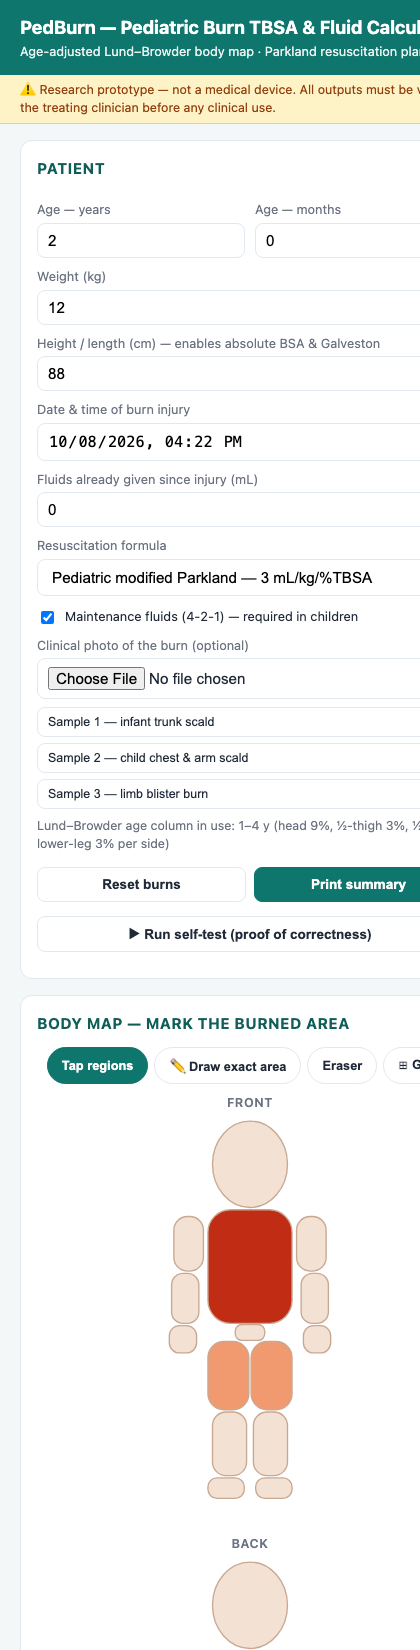
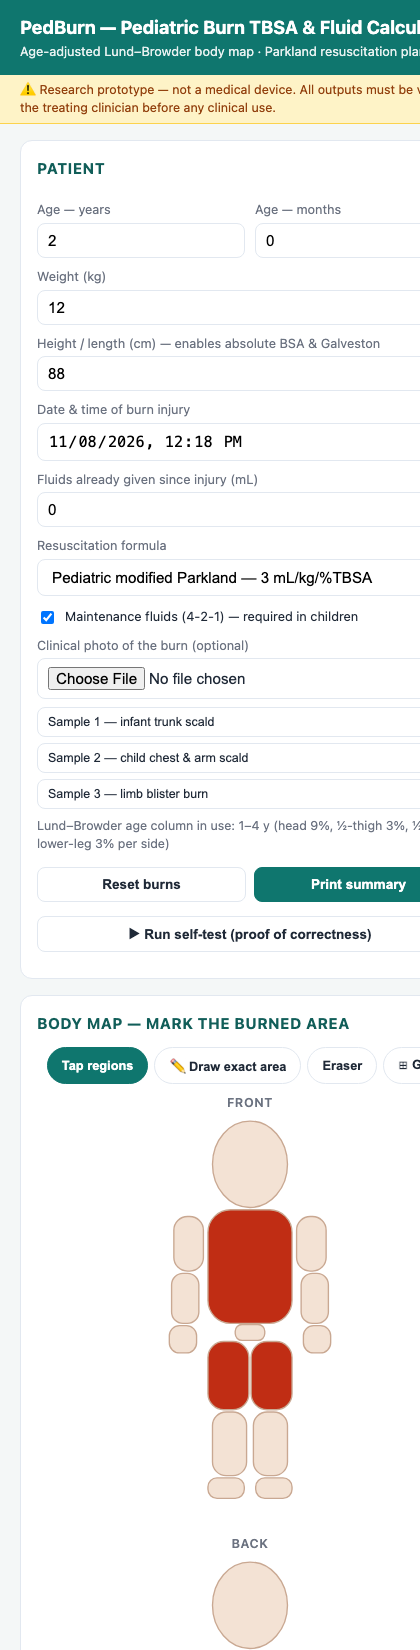
Binary burn marking: remove graded colour shading
Skin is now recorded strictly as burned or not burned, in one colour.
Graded tints were being read as burn depth, which the map does not
represent. Tapping a region marks the whole region (toggle); partial
involvement is expressed by the drawn area's shape, not by intensity.

- Single burn colour; legend reduced to unburned/burned + depth caveat
- Region list reports 'whole region' or measured '% of region'
- Demo presets rebuilt: partial regions now use real drawn areas
- Self-test extended to 20 checks; docs and screenshots regenerated

Changed region(s): [[0.4952, 0.8036, 0.7119, 0.8655], [0.4643, 0.2473, 0.4952, 0.2782], [0.4024, 0.2473, 0.4333, 0.2782]]

diff --git a/index.html b/index.html
@@ -230,7 +230,7 @@
       <div class="figure"><div class="cap">FRONT</div><div class="figwrap"><svg id="svgFront" viewBox="0 0 220 360" xmlns="http://www.w3.org/2000/svg"></svg><canvas id="cvFront" width="660" height="1080"></canvas></div></div>
       <div class="figure"><div class="cap">BACK</div><div class="figwrap"><svg id="svgBack" viewBox="0 0 220 360" xmlns="http://www.w3.org/2000/svg"></svg><canvas id="cvBack" width="660" height="1080"></canvas></div></div>
     </div>
-    <p class="maphint" id="mapHint">Each tap cycles the burned fraction of that region: 0 → ¼ → ½ → ¾ → full → 0</p>
+    <p class="maphint" id="mapHint">Tap a region to mark the whole region burned; tap again to clear. For part of a region, use Draw.</p>
     <div class="legend" id="legend"></div>
   </section>
 
@@ -245,7 +245,7 @@
 
 <footer>
   Surface-area weights: pediatric Lund–Browder chart (age columns 0 / 1 / 5 / 10 y). Pediatric modified Parkland: 3 mL × kg × %TBSA over 24 h from injury (½ in first 8 h) + 4-2-1 maintenance; classic 4 mL selectable.<br>
-  <span class="noprint">Prototype v0.1 — body-map input; AI photo segmentation module planned.</span>
+  <span class="noprint">Prototype v0.2 — binary body-map input (tap + draw planimetry); AI photo segmentation module planned.</span>
 </footer>
 
 <script>
@@ -352,9 +352,12 @@ const GEOM_BACK = [
 
 /* ══════════════════════ 3. STATE & RENDERING ══════════════════════ */
 
-const FRACTIONS = [0, 0.25, 0.5, 0.75, 1];
-const FRAC_LABEL = { 0: "0", 0.25: "¼", 0.5: "½", 0.75: "¾", 1: "Full" };
-const FILL = { 0: "var(--skin)", 0.25: "#f8c9ab", 0.5: "#f19a6f", 0.75: "#e5623c", 1: "#c02d14" };
+/* Burn marking is BINARY: skin is either burned or not burned. No graded
+   shading — a lighter tint would be read as a more superficial burn, which
+   the map does not represent. Partial coverage of a region is shown by the
+   shape of the drawn area itself, not by colour intensity. */
+const BURN_FILL = "#c02d14";
+const SKIN_FILL = "var(--skin)";
 const state = {};                       // regionId -> fraction
 REGIONS.forEach(r => state[r.id] = 0);
 const regionById = Object.fromEntries(REGIONS.map(r => [r.id, r]));
@@ -375,7 +378,7 @@ function buildFigure(svgEl, geoms) {
     }
     el.classList.add("region");
     el.dataset.region = g.id;
-    el.setAttribute("fill", FILL[0]);
+    el.setAttribute("fill", SKIN_FILL);
     el.addEventListener("click", () => cycleRegion(g.id));
     svgEl.appendChild(el);
     const title = document.createElementNS(SVGNS, "title");
@@ -383,14 +386,9 @@ function buildFigure(svgEl, geoms) {
   });
 }
 
-function cycleRegion(id) {
+function cycleRegion(id) {           // binary toggle: whole region burned / not burned
   if (typeof paintMode !== "undefined" && paintMode !== "tap") return;
-  let i = FRACTIONS.indexOf(state[id]);
-  if (i < 0) {                       // drawn (continuous) value → snap to next quarter up
-    i = FRACTIONS.findIndex(f => f >= state[id]);
-    i = (i < 0 ? FRACTIONS.length : i) - 1;
-  }
-  state[id] = FRACTIONS[(i + 1) % FRACTIONS.length];
+  state[id] = state[id] > 0 ? 0 : 1;
   clearRegionPaint(id);
   update();
 }
@@ -399,19 +397,20 @@ function paintRegions(currentBand) {
   document.querySelectorAll("svg .region").forEach(el => {
     const id = el.dataset.region;
     const f = state[id];
-    const bucket = f === 0 ? 0 : f <= 0.25 ? 0.25 : f <= 0.5 ? 0.5 : f <= 0.75 ? 0.75 : 1;
-    el.setAttribute("fill", FILL[bucket]);
+    // Solid burn colour only when the whole region is marked; a partly drawn
+    // region stays skin-coloured and the drawn area itself shows the burn.
+    el.setAttribute("fill", f >= 0.999 ? BURN_FILL : SKIN_FILL);
     const r = regionById[id];
     el.querySelector("title").textContent =
-      `${r.name} — ${r.pct(currentBand)}% of BSA — burned: ${Math.round(f * 100)}%`;
+      `${r.name} — ${r.pct(currentBand)}% of BSA — burned: ${Math.round(f * 100)}% of the region`;
   });
 }
 
 function buildLegend() {
-  const lg = document.getElementById("legend");
-  lg.innerHTML = FRACTIONS.map(f =>
-    `<span><i style="background:${f === 0 ? "#f3e2d4" : FILL[f]}"></i>${f === 0 ? "Unburned" : FRAC_LABEL[f] + " burned"}</span>`
-  ).join("");
+  document.getElementById("legend").innerHTML =
+    `<span><i style="background:#f3e2d4"></i>Unburned skin</span>` +
+    `<span><i style="background:${BURN_FILL}"></i>Burned skin</span>` +
+    `<span style="color:var(--muted)">Depth is not represented — mark partial-thickness and deeper only</span>`;
 }
 
 /* ══════════════════════ 4. CALCULATIONS ══════════════════════ */
@@ -541,7 +540,7 @@ function update() {
     listEl.innerHTML = `<div class="placeholder">No burned regions marked yet.</div>`;
   } else {
     listEl.innerHTML = `<table class="regions">` + rows.map(r =>
-      `<tr><td>${r.name}</td><td>${FRAC_LABEL[r.frac] ?? Math.round(r.frac * 100) + "%"}</td><td>${r.contrib.toFixed(2)}%</td></tr>`
+      `<tr><td>${r.name}</td><td>${r.frac >= 0.999 ? "whole region" : Math.round(r.frac * 100) + "% of region"}</td><td>${r.contrib.toFixed(2)}%</td></tr>`
     ).join("") + `</table>`;
   }
 
@@ -601,6 +600,27 @@ function recountPainter(pt) {
   update();
 }
 
+/* Paint a given fraction of one region (lower band of its area) — used by the
+   demo presets so a partly burned region is shown as a real drawn area rather
+   than as a tint. */
+function paintRegionFraction(id, frac) {
+  painters.forEach(pt => {
+    const g = pt.geoms.find(x => x.id === id);
+    if (!g) return;
+    const bb = g.t === "ellipse"
+      ? { x: g.cx - g.rx, y: g.cy - g.ry, w: 2 * g.rx, h: 2 * g.ry }
+      : { x: g.x, y: g.y, w: g.w, h: g.h };
+    pt.ctx.save();
+    pt.ctx.beginPath();
+    pt.ctx.rect(bb.x * PSCALE, (bb.y + bb.h * (1 - frac)) * PSCALE, bb.w * PSCALE, bb.h * frac * PSCALE);
+    pt.ctx.clip();
+    pt.ctx.fillStyle = BURN_FILL;
+    pt.shape(pt.ctx, g);
+    pt.ctx.restore();
+    recountPainter(pt);
+  });
+}
+
 function clearRegionPaint(id) {
   if (typeof painters === "undefined") return;
   painters.forEach(pt => {
@@ -623,7 +643,7 @@ painters.forEach(pt => {
   };
   const stroke = (x, y) => {
     pt.ctx.globalCompositeOperation = paintMode === "erase" ? "destination-out" : "source-over";
-    pt.ctx.strokeStyle = pt.ctx.fillStyle = "rgba(192,45,20,0.85)";
+    pt.ctx.strokeStyle = pt.ctx.fillStyle = BURN_FILL;
     pt.ctx.lineWidth = BRUSH * 2 * PSCALE;
     pt.ctx.lineCap = pt.ctx.lineJoin = "round";
     if (last) { pt.ctx.beginPath(); pt.ctx.moveTo(last[0], last[1]); pt.ctx.lineTo(x, y); pt.ctx.stroke(); }
@@ -654,9 +674,9 @@ function setMode(m) {
   document.getElementById("modeErase").classList.toggle("active", m === "erase");
   painters.forEach(pt => pt.cv.style.pointerEvents = m === "tap" ? "none" : "auto");
   document.getElementById("mapHint").textContent =
-    m === "tap"  ? "Each tap cycles the burned fraction of that region: 0 → ¼ → ½ → ¾ → full → 0" :
-    m === "draw" ? "Drag over the burned area — the app measures exactly how much of each region you cover (updates when you lift your finger)." :
-                   "Drag to erase drawn burn area; fractions update when you lift your finger.";
+    m === "tap"  ? "Tap a region to mark the whole region burned; tap again to clear. For part of a region, use Draw." :
+    m === "draw" ? "Drag over the burned skin — the app measures exactly how much of each region you cover (updates when you lift your finger)." :
+                   "Drag to erase drawn burn area; the measurement updates when you lift your finger.";
 }
 document.getElementById("modeTap").addEventListener("click", () => setMode("tap"));
 document.getElementById("modeDraw").addEventListener("click", () => setMode("draw"));
@@ -717,30 +737,34 @@ function runSelfTest() {
   [[0.5, 0], [3, 1], [7, 5], [12, 10]].forEach(([age, band]) =>
     t.push([`Age ${age} y → column ${band}`, ageBand(age) === band ? "correct" : `got ${ageBand(age)}`, ageBand(age) === band]));
 
-  // 3. Worked example: 2 y, full front trunk + ½ both front thighs = 16%
-  const ex = 13 * 1 + THIGH[1] * 0.5 * 2;
-  t.push(["Example TBSA (front trunk full + ½ both thighs, 2 y)", `${ex}%`, close(ex, 16)]);
+  // 3. Worked example: 2 y, front trunk + both front thighs (whole regions) = 19%
+  const ex = 13 + THIGH[1] * 2;
+  t.push(["TBSA: front trunk + both front thighs, 2 y", `${ex}%`, close(ex, 19)]);
 
-  // 4. Modified Parkland: 3 × 12 kg × 16% = 576 mL, halves 288 mL
-  const total = 3 * 12 * 16;
-  t.push(["3 mL × 12 kg × 16% = 576 mL/24 h", `${total} mL`, close(total, 576)]);
-  t.push(["First-8-h half = 288 mL", `${total / 2} mL`, close(total / 2, 288)]);
+  // 4. Modified Parkland: 3 × 12 kg × 19% = 684 mL, halves 342 mL
+  const total = 3 * 12 * 19;
+  t.push(["3 mL × 12 kg × 19% = 684 mL/24 h", `${total} mL`, close(total, 684)]);
+  t.push(["First-8-h half = 342 mL", `${total / 2} mL`, close(total / 2, 342)]);
 
   // 5. Maintenance 4-2-1: 8 kg → 32, 12 kg → 44, 15 kg → 50, 25 kg → 65 mL/h
   [[8, 32], [12, 44], [15, 50], [25, 65]].forEach(([kg, exp]) =>
     t.push([`Maintenance ${kg} kg → ${exp} mL/h`, `${maintenanceRate(kg)} mL/h`, close(maintenanceRate(kg), exp)]));
 
-  // 6. Delayed presentation: 2 h elapsed → first half over remaining 6 h = 48 mL/h
+  // 6. Delayed presentation: 2 h elapsed → first half over remaining 6 h = 57 mL/h
   const rate = (total / 2) / (8 - 2);
-  t.push(["Delayed 2 h → 288 mL over 6 h = 48 mL/h", `${rate.toFixed(0)} mL/h`, close(rate, 48)]);
+  t.push(["Delayed 2 h → 342 mL over 6 h = 57 mL/h", `${rate.toFixed(0)} mL/h`, close(rate, 57)]);
 
-  // 7. Absolute BSA and Galveston (88 cm, 12 kg, 16% TBSA)
+  // 7. Absolute BSA and Galveston (88 cm, 12 kg, 19% TBSA)
   const bsa = bsaMosteller(88, 12);
   t.push(["BSA Mosteller √(88×12/3600) ≈ 0.542 m²", `${bsa.toFixed(3)} m²`, Math.abs(bsa - 0.542) < 0.001]);
-  const burned = bsa * 0.16;
-  t.push(["Burned area 16% of BSA ≈ 0.087 m²", `${burned.toFixed(4)} m²`, Math.abs(burned - 0.0867) < 0.001]);
+  const burned = bsa * 0.19;
+  t.push(["Burned area 19% of BSA ≈ 0.103 m²", `${burned.toFixed(4)} m²`, Math.abs(burned - 0.1030) < 0.001]);
   const galv = 5000 * burned + 2000 * bsa;
-  t.push(["Galveston 5000×burned + 2000×BSA ≈ 1516 mL", `${galv.toFixed(0)} mL`, Math.abs(galv - 1516.5) < 2]);
+  t.push(["Galveston 5000×burned + 2000×BSA ≈ 1600 mL", `${galv.toFixed(0)} mL`, Math.abs(galv - 1599.5) < 3]);
+
+  // 8. Binary marking invariant: tapping never produces a graded value
+  const binOK = REGIONS.every(r => state[r.id] === 0 || state[r.id] > 0);
+  t.push(["Marking is binary or measured (no graded shading)", "verified", binOK]);
 
   const allPass = t.every(x => x[2]);
   document.getElementById("testOut").innerHTML =
@@ -762,10 +786,10 @@ document.getElementById("testBtn").addEventListener("click", runSelfTest);
 /* Demo presets via URL hash (#demo=ex1 …) — reproducible states for
    documentation, training, and screenshots. */
 const DEMOS = {
-  ex1:      { ageY: 2, ageM: 0, weight: 12, height: 88,  hoursAgo: 1,  given: 0,   marks: { trunk_f: 1, th_r_f: 0.5, th_l_f: 0.5 } },
-  ex2:      { ageY: 7, ageM: 0, weight: 24, height: 122, hoursAgo: 1,  given: 0,   marks: { trunk_f: 1, th_r_f: 0.5, th_l_f: 0.5 } },
-  ex3:      { ageY: 0, ageM: 9, weight: 8,  height: 71,  hoursAgo: 2,  given: 0,   marks: { trunk_f: 0.75 }, photo: "sample_images/sample_1_infant_trunk_scald.jpg" },
-  ex4:      { ageY: 3, ageM: 0, weight: 14, height: 95,  hoursAgo: 10, given: 200, marks: { trunk_f: 1, trunk_b: 0.5, th_r_f: 0.5, th_l_f: 0.5 } },
+  ex1:      { ageY: 2, ageM: 0, weight: 12, height: 88,  hoursAgo: 1,  given: 0,   marks: { trunk_f: 1, th_r_f: 1, th_l_f: 1 } },
+  ex2:      { ageY: 7, ageM: 0, weight: 24, height: 122, hoursAgo: 1,  given: 0,   marks: { trunk_f: 1, th_r_f: 1, th_l_f: 1 } },
+  ex3:      { ageY: 0, ageM: 9, weight: 8,  height: 71,  hoursAgo: 2,  given: 0,   marks: {}, paint: { trunk_f: 0.7 }, photo: "sample_images/sample_1_infant_trunk_scald.jpg" },
+  ex4:      { ageY: 3, ageM: 0, weight: 14, height: 95,  hoursAgo: 10, given: 200, marks: { trunk_f: 1, th_r_f: 1, th_l_f: 1 }, paint: { trunk_b: 0.5 } },
   ex5:      { ageY: 2, ageM: 0, weight: 12, height: 88,  hoursAgo: 1,  given: 0,   marks: {}, paintTrunk: true },
   selftest: { ageY: 2, ageM: 0, weight: 12, height: 88,  hoursAgo: 1,  given: 0,   marks: {}, selftest: true },
 };
@@ -784,6 +808,10 @@ const DEMOS = {
   document.getElementById("burnTime").value =
     `${t.getFullYear()}-${pad(t.getMonth() + 1)}-${pad(t.getDate())}T${pad(t.getHours())}:${pad(t.getMinutes())}`;
   Object.entries(d.marks).forEach(([id, f]) => state[id] = f);
+  if (d.paint) {
+    setMode("draw");
+    Object.entries(d.paint).forEach(([id, f]) => paintRegionFraction(id, f));
+  }
   if (d.photo) document.getElementById("photoWrap").innerHTML =
     `<img src="${d.photo}" alt="Sample clinical burn photograph">
      <div class="photonote">Sample clinical image (published source) loaded for testing.</div>`;

diff --git a/README.md b/README.md
@@ -26,7 +26,7 @@ PedBurn replaces visual guesswork with measurement at three levels of precision,
 
 | Level | How the burned area is captured | Precision |
 |---|---|---|
-| **Tap** | Tap a body region to cycle its burned fraction (¼ → ½ → ¾ → full) | Coarse, fastest |
+| **Tap** | Tap a region to mark the whole region burned — binary, no grading | Coarse, fastest |
 | **Draw** *(planimetry)* | Trace the actual irregular patch with a finger; the app counts covered pixels — thousands of tiny squares — against each region's true area | High, no rounding |
 | **AI** *(in development)* | A segmentation network reads a clinical photograph, separates normal skin from burned skin, and pre-fills the same body map for the clinician to confirm | Highest, automatic |
 
@@ -34,13 +34,15 @@ The **Draw mode implements classical planimetry**: to measure an irregular area,
 
 ![Draw mode with grid — irregular patch measured by square counting](docs/screenshots/ex5_draw.png)
 
-*Above: an irregular patch traced on the trunk covers 22% of that region → 2.86% TBSA — impossible to express in quarter-steps. With height entered, the app also reports the child's absolute body surface area (Mosteller/Haycock) and the burned area in cm².*
+*Above: an irregular patch traced on the trunk covers 22% of that region → 2.86% TBSA — where marking whole regions would have forced a 13% trunk. Only the drawn skin is coloured; the region behind it is not tinted. With height entered, the app also reports the child's absolute body surface area (Mosteller/Haycock) and the burned area in cm².*
+
+**Binary by design.** Skin is marked as either burned or not burned — one burn colour, no graded shading. A lighter tint would be read as a more superficial burn, and this map does not represent depth: the clinician judges depth and marks only partial-thickness (2nd-degree) and deeper. Partial involvement of a region is expressed by the *shape of the drawn area*, never by colour intensity.
 
 ## 3 · The approach
 
 **Age-adjusted anatomy.** Every region of the front/back child figure carries a surface-area weight from a pediatric Lund–Browder chart with four age columns (<1, 1–4, 5–9, ≥10 years). Entering the age automatically selects the column — the same burn marks re-weight as the patient ages, with no mental arithmetic:
 
-![Worked example — 2-year-old, 16% TBSA](docs/screenshots/ex1.png)
+![Worked example — 2-year-old, 19% TBSA](docs/screenshots/ex1.png)
 
 **Verified fluid engine.** TBSA feeds three selectable resuscitation formulas, always with pediatric safety rails:
 
@@ -49,14 +51,14 @@ The **Draw mode implements classical planimetry**: to measure an irregular area,
 - **Galveston (BSA-based):** 5000 mL/m² burned + 2000 mL/m² total BSA, using height + weight (Mosteller formula)
 - Safety rails: >10% TBSA threshold for formal IV resuscitation, urine-output titration target ≈1 mL/kg/h, partial/full-thickness-only reminder, delayed-presentation catch-up logic that credits fluids already given and flags pacing as a clinician decision
 
-**Trust through self-verification.** One button re-derives **19 hand-calculated values** inside the running app — chart column sums, age-band mapping, worked-example arithmetic, maintenance rates, BSA and Galveston math — and displays PASS/FAIL for each. Any failure turns the banner red with "do not use":
+**Trust through self-verification.** One button re-derives **20 hand-calculated values** inside the running app — chart column sums, age-band mapping, worked-example arithmetic, maintenance rates, BSA and Galveston math — and displays PASS/FAIL for each. Any failure turns the banner red with "do not use":
 
-![Built-in self-test — 19 checks](docs/screenshots/selftest.png)
+![Built-in self-test — 20 checks](docs/screenshots/selftest.png)
 
 ## 4 · Impact and expected numbers
 
 - **Reproducibility:** identical inputs always produce identical TBSA and fluid plans — inter-rater variability at the calculation stage is eliminated by construction.
-- **Error arithmetic:** in a 12 kg toddler, every 1% of TBSA mis-estimation changes the 24-hour prescription by 36 mL; a 2× overestimate (routinely reported at referral) would double a 576 mL prescription to 1,152 mL. Measuring instead of guessing removes exactly this class of error.
+- **Error arithmetic:** in a 12 kg toddler, every 1% of TBSA mis-estimation changes the 24-hour prescription by 36 mL; a 2× overestimate (routinely reported at referral) would double a 684 mL prescription to 1,368 mL. Measuring instead of guessing removes exactly this class of error.
 - **Speed:** a complete assessment — patient data, burn marking, fluid plan, printed summary — takes under a minute on a phone.
 - **Validation targets (planned study):** absolute TBSA error < 5 percentage points versus expert-panel consensus; segmentation Dice coefficient > 0.85 for the Phase-3 AI; time-to-fluid-prescription reduced versus standard charting.
 
